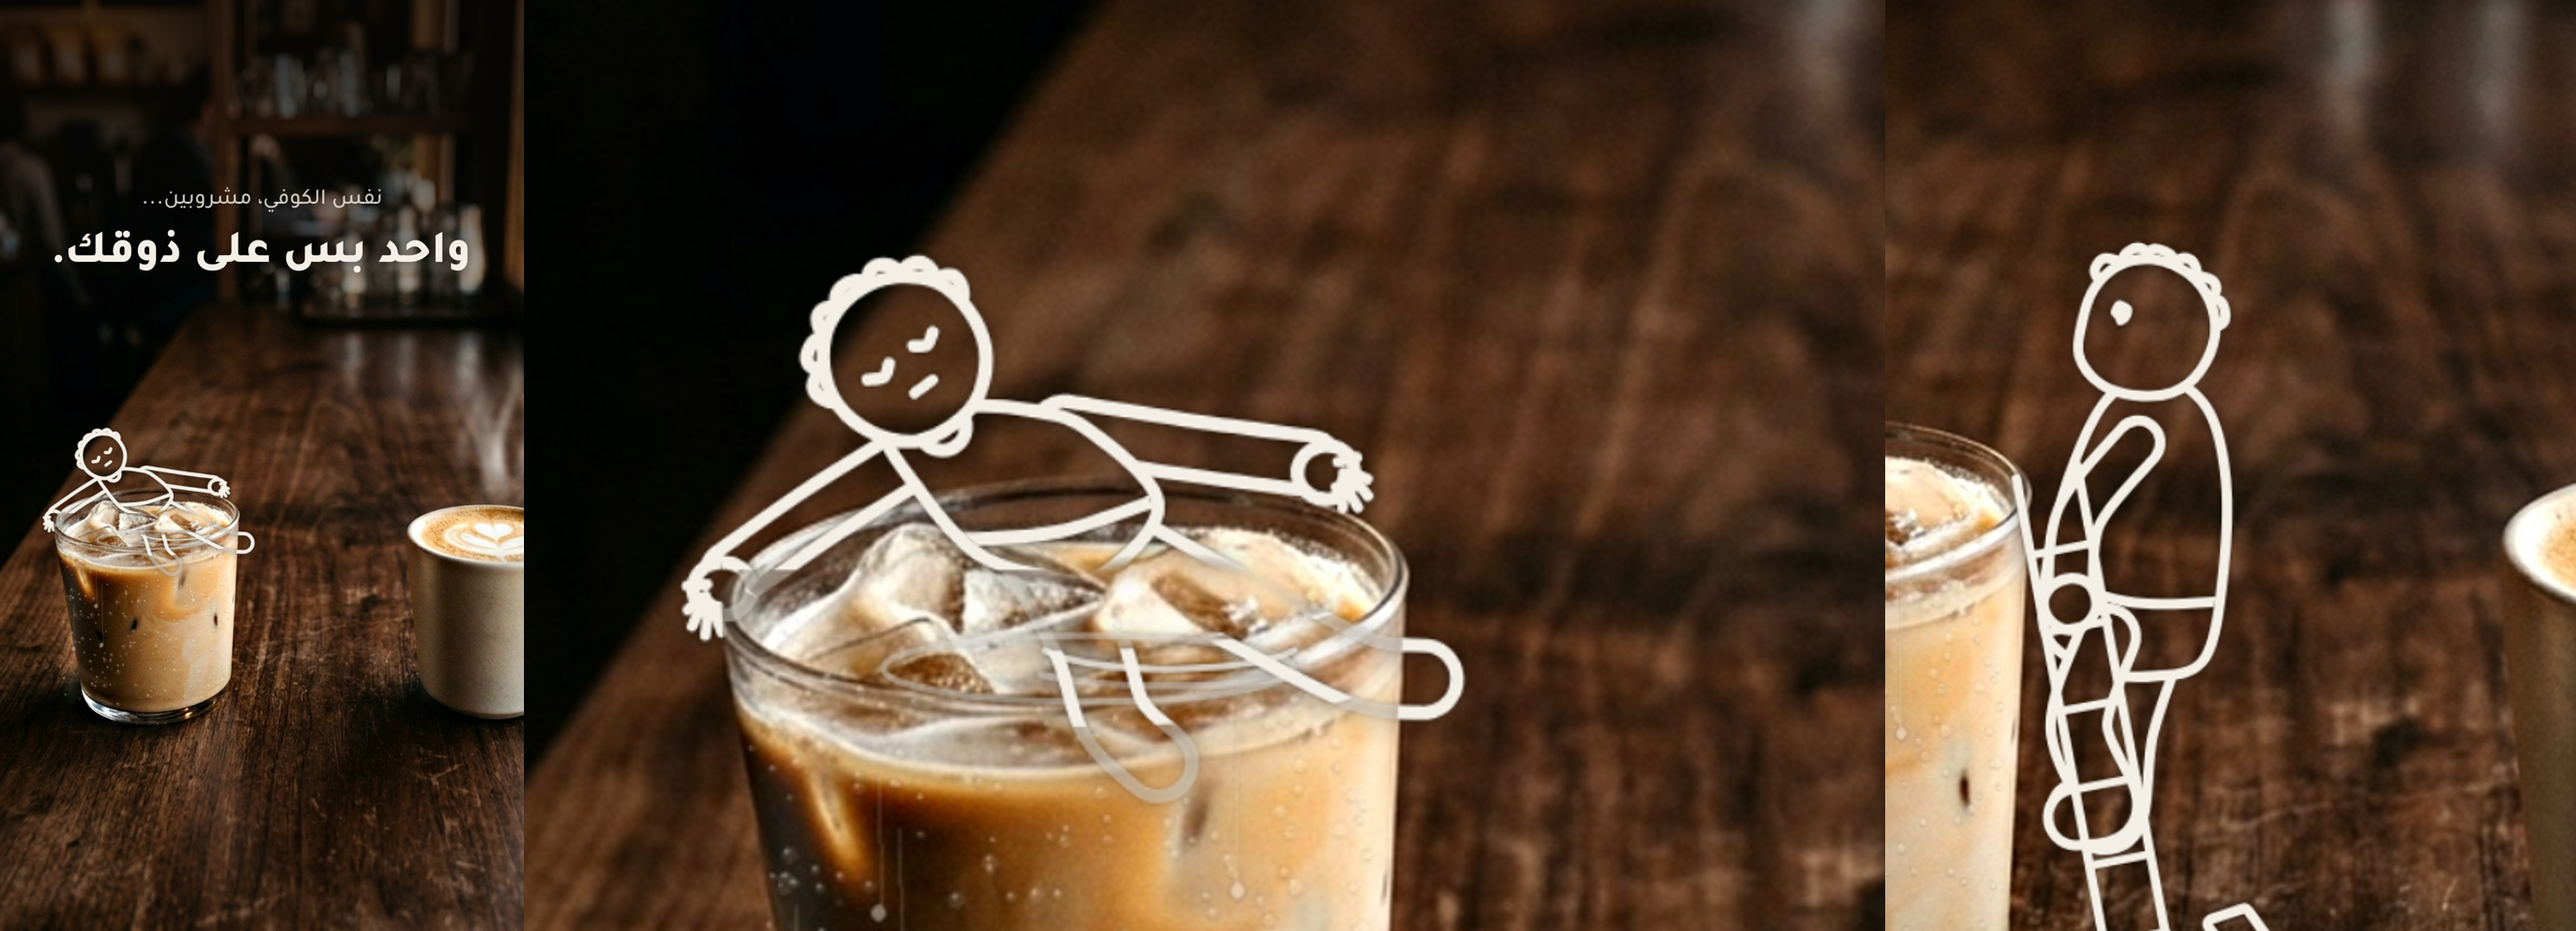
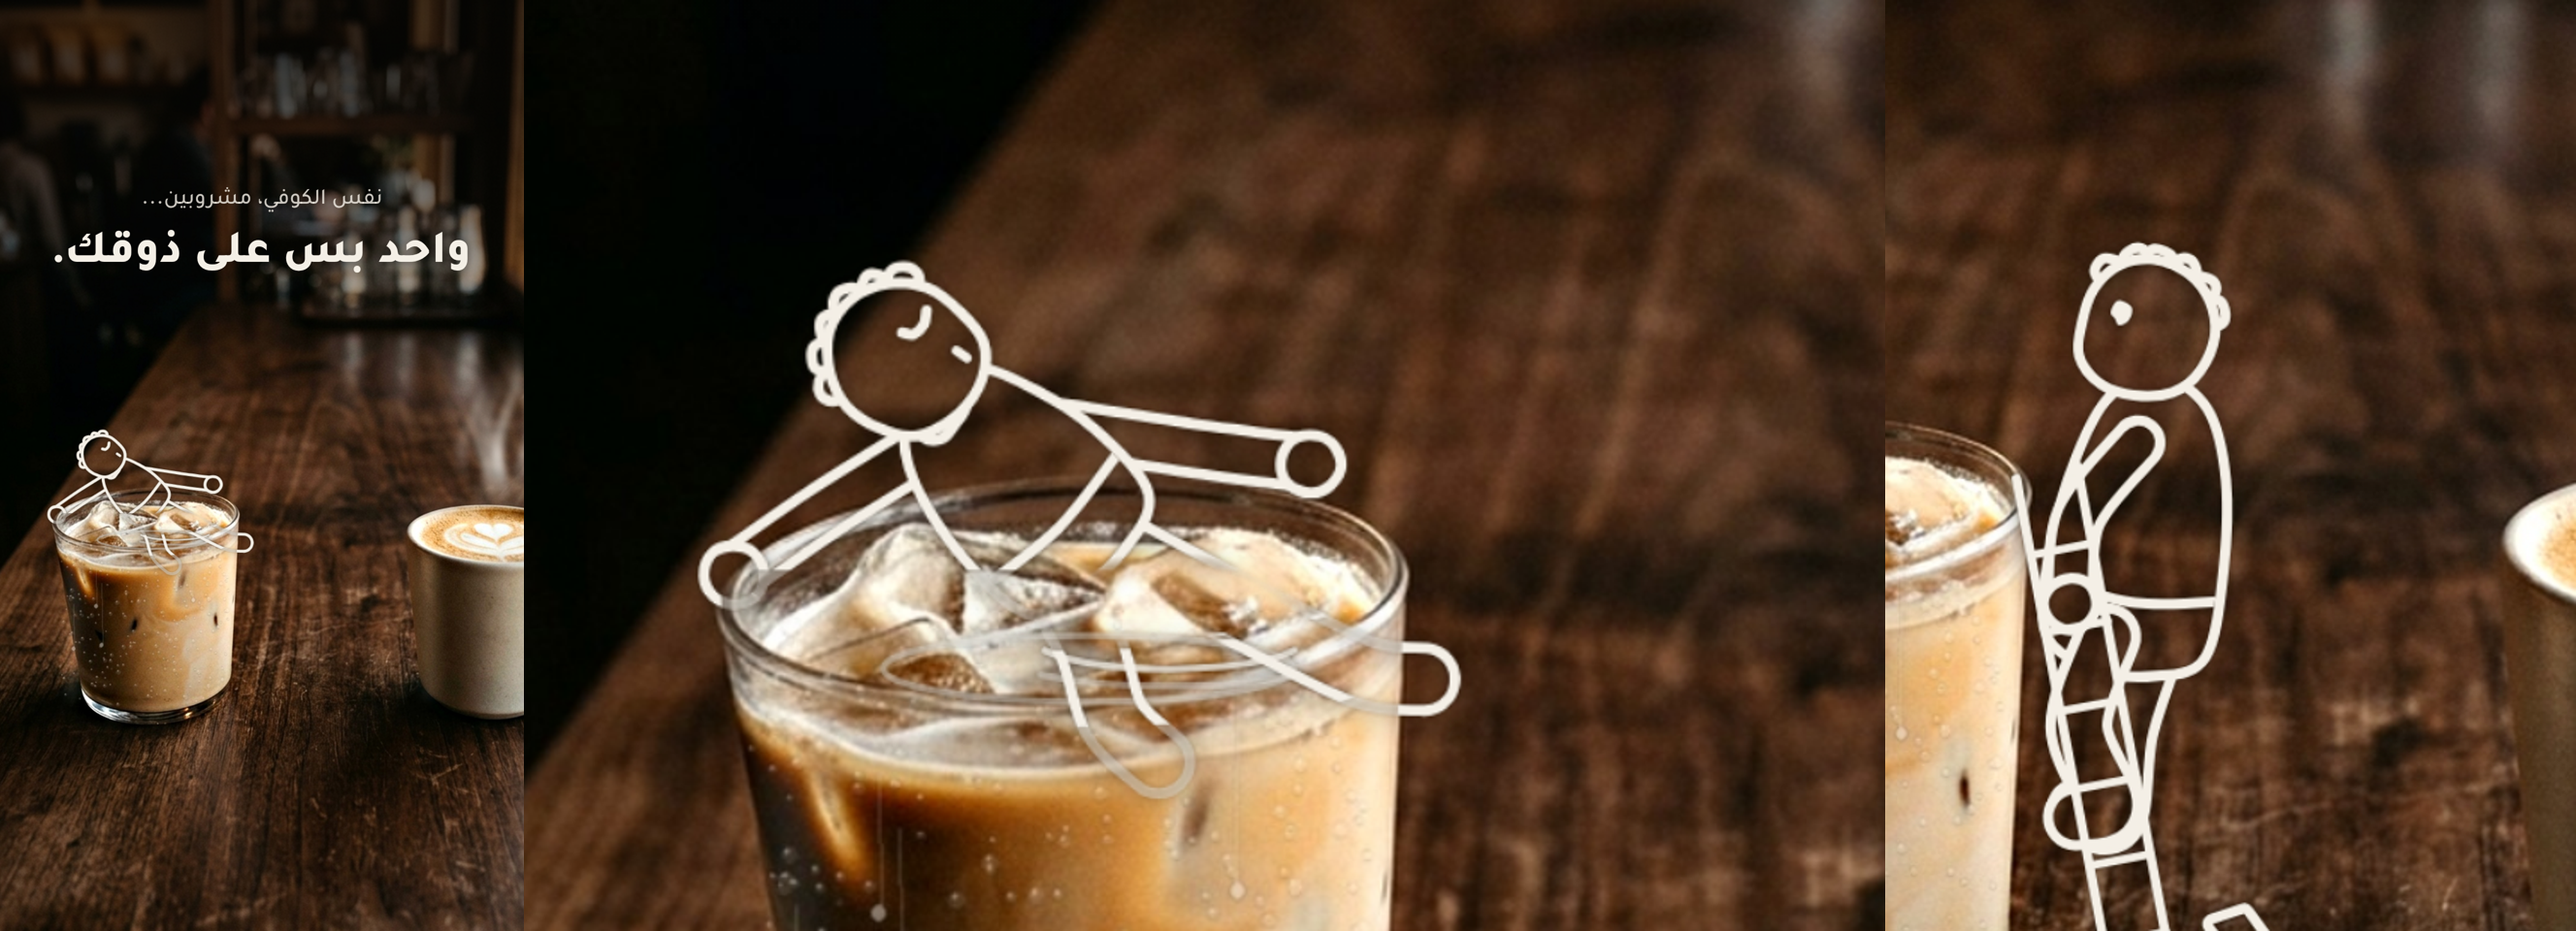
Ep.1: draw the float with the character's own parts
The float is now built from the rig itself: his profile head (one
closed eye, hair loops on the crown) via drawHead, the rig's torso with
its shorts line fitted between hips and neck, tube limbs and round
hands, all at his own scale and line weight. Only the joint positions
come from the traced reference.

Claude-Session: https://claude.ai/code/session_01UCKVHF8Bj15Neb29ir5cAN

diff --git a/marketing/posts/found-my-coffee/reel.js b/marketing/posts/found-my-coffee/reel.js
@@ -260,7 +260,7 @@ const CLIMB = 5;                                            // climbing: half-st
 // extra foreshortening. Head back toward the far side of the cup, eyes closed, arms dropped outward past both sides with
 // loose open hands, legs loose, feet falling outward. His hips and upper legs are under the coffee (soft erase inside the
 // rim + a waterline); below the rim he shows faintly through the glass. One fixed pose: the whole figure drifts 1–2 px.
-var FL = { land: [306, 968], c: [262, 968], s: 0.44, sq: 0.62, hip: [47, 32], hipR: [65, 26], line: 6.1, headR: 33 };
+var FL = { land: [306, 968], c: [262, 968], s: 0.44, sq: 0.62, hip: [47, 32], hipR: [65, 26], line: 6.1, body: 0.86 };
 const TRACE = {
   o: [434.5, 422.5],
   head: [272, 128], neck: [[300, 196], [312, 236]],
@@ -269,34 +269,35 @@ const TRACE = {
   armL: [[282, 282], [190, 380], [100, 482]], armR: [[436, 244], [564, 274], [684, 300]],
   legL: [[410, 452], [462, 592], [486, 716], [530, 784]],
   legR: [[488, 436], [620, 546], [734, 640], [800, 652]],
-  faceAng: -0.64,
+  hipC: [448, 440], across: 0.94, headBack: -0.12,
 };
 function drawFloater(ctx, t) {
-  const d = [1.3 * Math.sin(t * 0.42), 0.9 * Math.sin(t * 0.57 + 1.3)];      // the whole figure drifts 1–2 px; the pose never changes
+  // Drawn with the character's own parts, at his own scale: the profile head (one eye, hair loops on the crown), the
+  // rig's torso with its shorts line, tube limbs and round hands. Only the joint positions come from the trace.
+  const FS = K * FL.body, d = [1.3 * Math.sin(t * 0.42), 0.9 * Math.sin(t * 0.57 + 1.3)];
   const cx = FL.c[0] + d[0], cy = FL.c[1] + d[1];
-  const M = ([x, y]) => [cx + (x - TRACE.o[0]) * FL.s, cy + (y - TRACE.o[1]) * FL.s * FL.sq];
+  const M = ([x, y]) => [(cx + (x - TRACE.o[0]) * FL.s) / FS, (cy + (y - TRACE.o[1]) * FL.s * FL.sq) / FS];
   const X = p => J(M(p));
-  for (const L of [TRACE.legL, TRACE.legR]) tube(ctx, L.map(X), RIG.leg * 0.8);
+  ctx.save(); ctx.setTransform(FS, 0, 0, FS, 0, 0); LINE = 5.6 / K;
+  for (const L of [TRACE.legL, TRACE.legR]) tube(ctx, L.map(X), RIG.leg);
   const hands = [];
-  for (const [A, side] of [[TRACE.armL, -1], [TRACE.armR, 1]]) {
-    const pts = A.map(M); tube(ctx, pts.map(p => J(p)), RIG.arm * 0.82);
-    const v = [pts[2][0] - pts[1][0], pts[2][1] - pts[1][1]]; hands.push([pts[2], scl(v, 1 / len(v)), side]);
-  }
-  const tp = TRACE.torso.map(X);
+  for (const A of [TRACE.armL, TRACE.armR]) { const pts = A.map(M); tube(ctx, pts.map(p => J(p)), RIG.arm); hands.push(pts[2]); }
+  // torso: the rig's own torso, fitted between his hips and his neck (foreshortened along the body, full width across)
+  const hip = M(TRACE.hipC), neck = M(TRACE.neck[0]), ax = [neck[0] - hip[0], neck[1] - hip[1]], L = len(ax), u = scl(ax, 1 / L), v = [-u[1], u[0]];
+  const TW = ([x, y]) => add(hip, add(scl(v, x * TRACE.across), scl(u, -y * L / 160)));
+  const tp = RIG.torso.map(p => J(TW(p)));
   shape(ctx, tp);
-  ctx.save(); ctx.beginPath(); cr(ctx, tp, true); ctx.clip(); stroke(ctx, TRACE.shorts.map(X)); ctx.restore();
-  hands.forEach(([w, fd, side]) => openHand(ctx, w, fd, side));
-  tube(ctx, TRACE.neck.map(X), 15);
-  // head: the character's own head, face up and tipped back: hair loops on the crown, two closed eyes, a neutral mouth
-  const c = M(TRACE.head), R = FL.headR, fa = TRACE.faceAng;           // fa turns the face's "up" toward the crown (up-left)
-  const H = (x, y) => J(add(c, rot([x * R / 40, y * R / 40], fa)), 0.7);
-  [196, 220, 244, 268, 292, 316, 340].forEach((deg, i) => {
-    const r = deg * Math.PI / 180, cc = [43 * Math.cos(r), 43 * Math.sin(r)];
-    stroke(ctx, circlePts([0, 0], 8.5 + (i % 2), 8.5, 7).map(p => H(cc[0] + p[0], cc[1] + p[1])), { closed: true });
-  });
-  shape(ctx, circlePts([0, 0], 40, 41, 12).map(p => H(p[0], p[1])));
-  for (const ex of [-15, 15]) stroke(ctx, [H(ex - 7, -2), H(ex, 2), H(ex + 7, -2)], { width: LINE * 0.9 });   // eyes closed, at ease
-  stroke(ctx, [H(-6, 18), H(0, 19), H(6, 18)], { width: LINE * 0.8 });                                     // neutral mouth
+  ctx.save(); ctx.beginPath(); cr(ctx, tp, true); ctx.clip(); stroke(ctx, [[-60, -30], [0, -22], [64, -32]].map(p => J(TW(p)))); ctx.restore();
+  hands.forEach(w => shape(ctx, circlePts(w, RIG.hand, RIG.hand, 8).map(p => J(p, 0.8))));
+  // head: his profile head, crown toward the far side of the cup, face to the sky; eyes closed, a small resting mouth
+  const hc = M(TRACE.head), crown = scl([hc[0] - neck[0], hc[1] - neck[1]], 1 / len([hc[0] - neck[0], hc[1] - neck[1]]));
+  const P = { f: 1, rot: Math.atan2(crown[0], -crown[1]) + TRACE.headBack, tilt: 0, eyes: 'closed', mouth: 'rest' };
+  const hl = add(RIG.neck, [10, -40]), q = rot(hl, P.rot); P.x = hc[0] - q[0]; P.y = hc[1] - q[1];
+  tube(ctx, [TW([4, -150]), toWorld(P, RIG.neck)].map(p => J(p)), 16);
+  drawHead(ctx, P);
+  const m0 = toWorld(P, add(hl, [26, 16])), m1 = toWorld(P, add(hl, [28, 24]));
+  stroke(ctx, [J(m0, 0.5), J(m1, 0.5)], { smooth: false, width: LINE * 0.9 });
+  ctx.restore(); LINE = FL.line;
   // hips and upper legs under the coffee: a soft erase, only inside the rim
   const Rr = CUP_A.rim, hx = cx + FL.hip[0], hy = cy + FL.hip[1];
   ctx.save();
